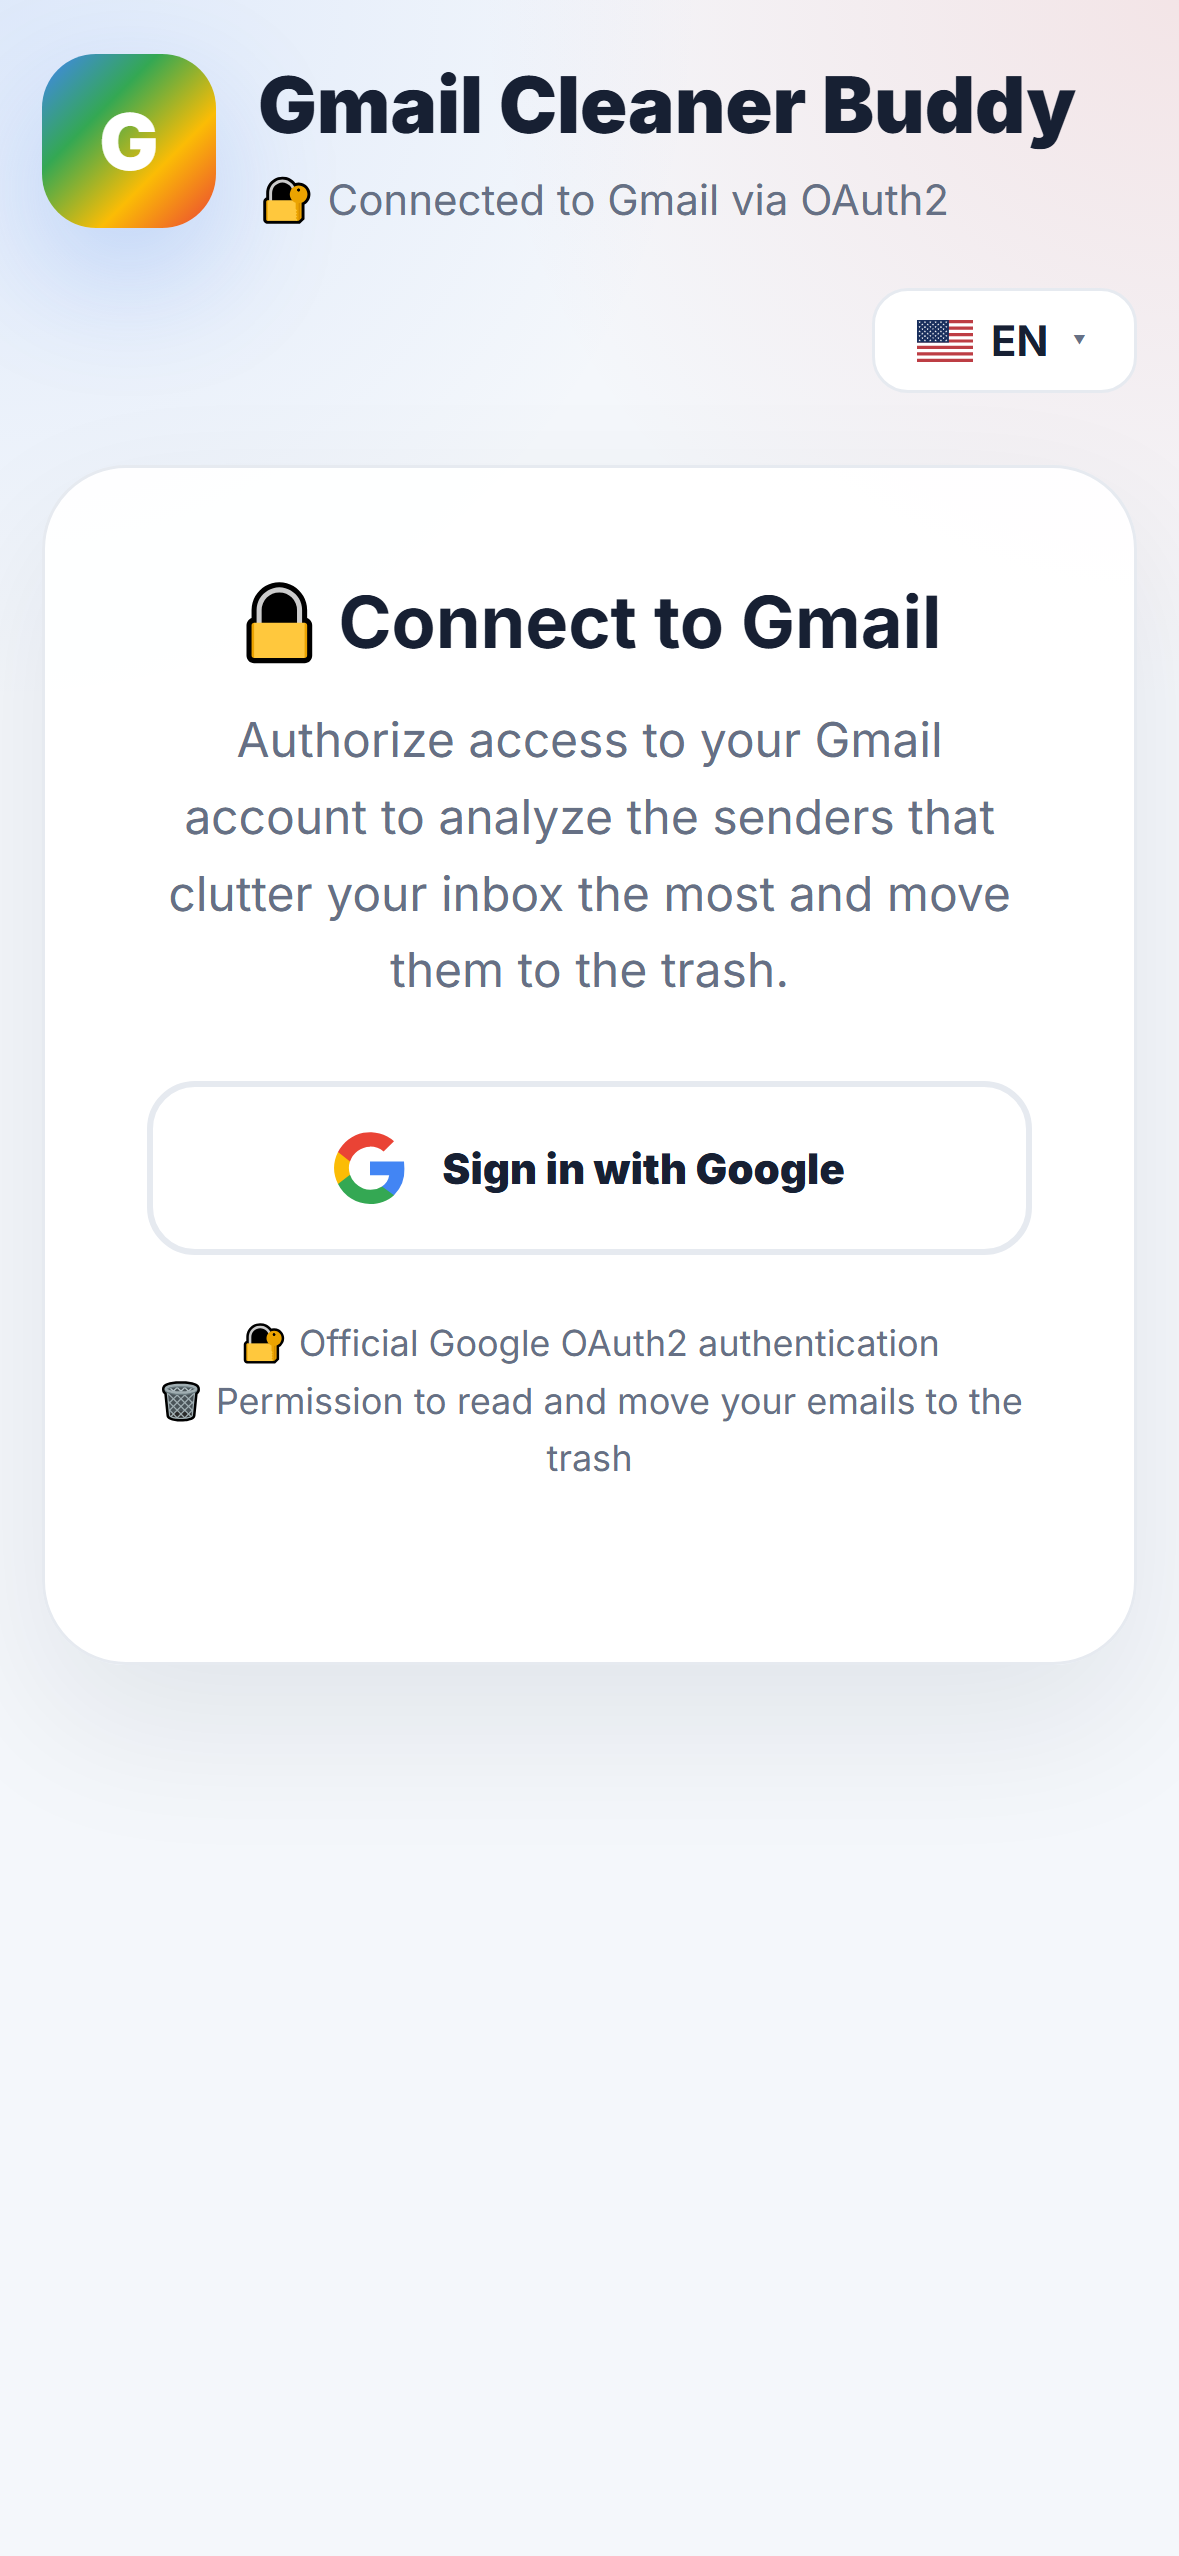
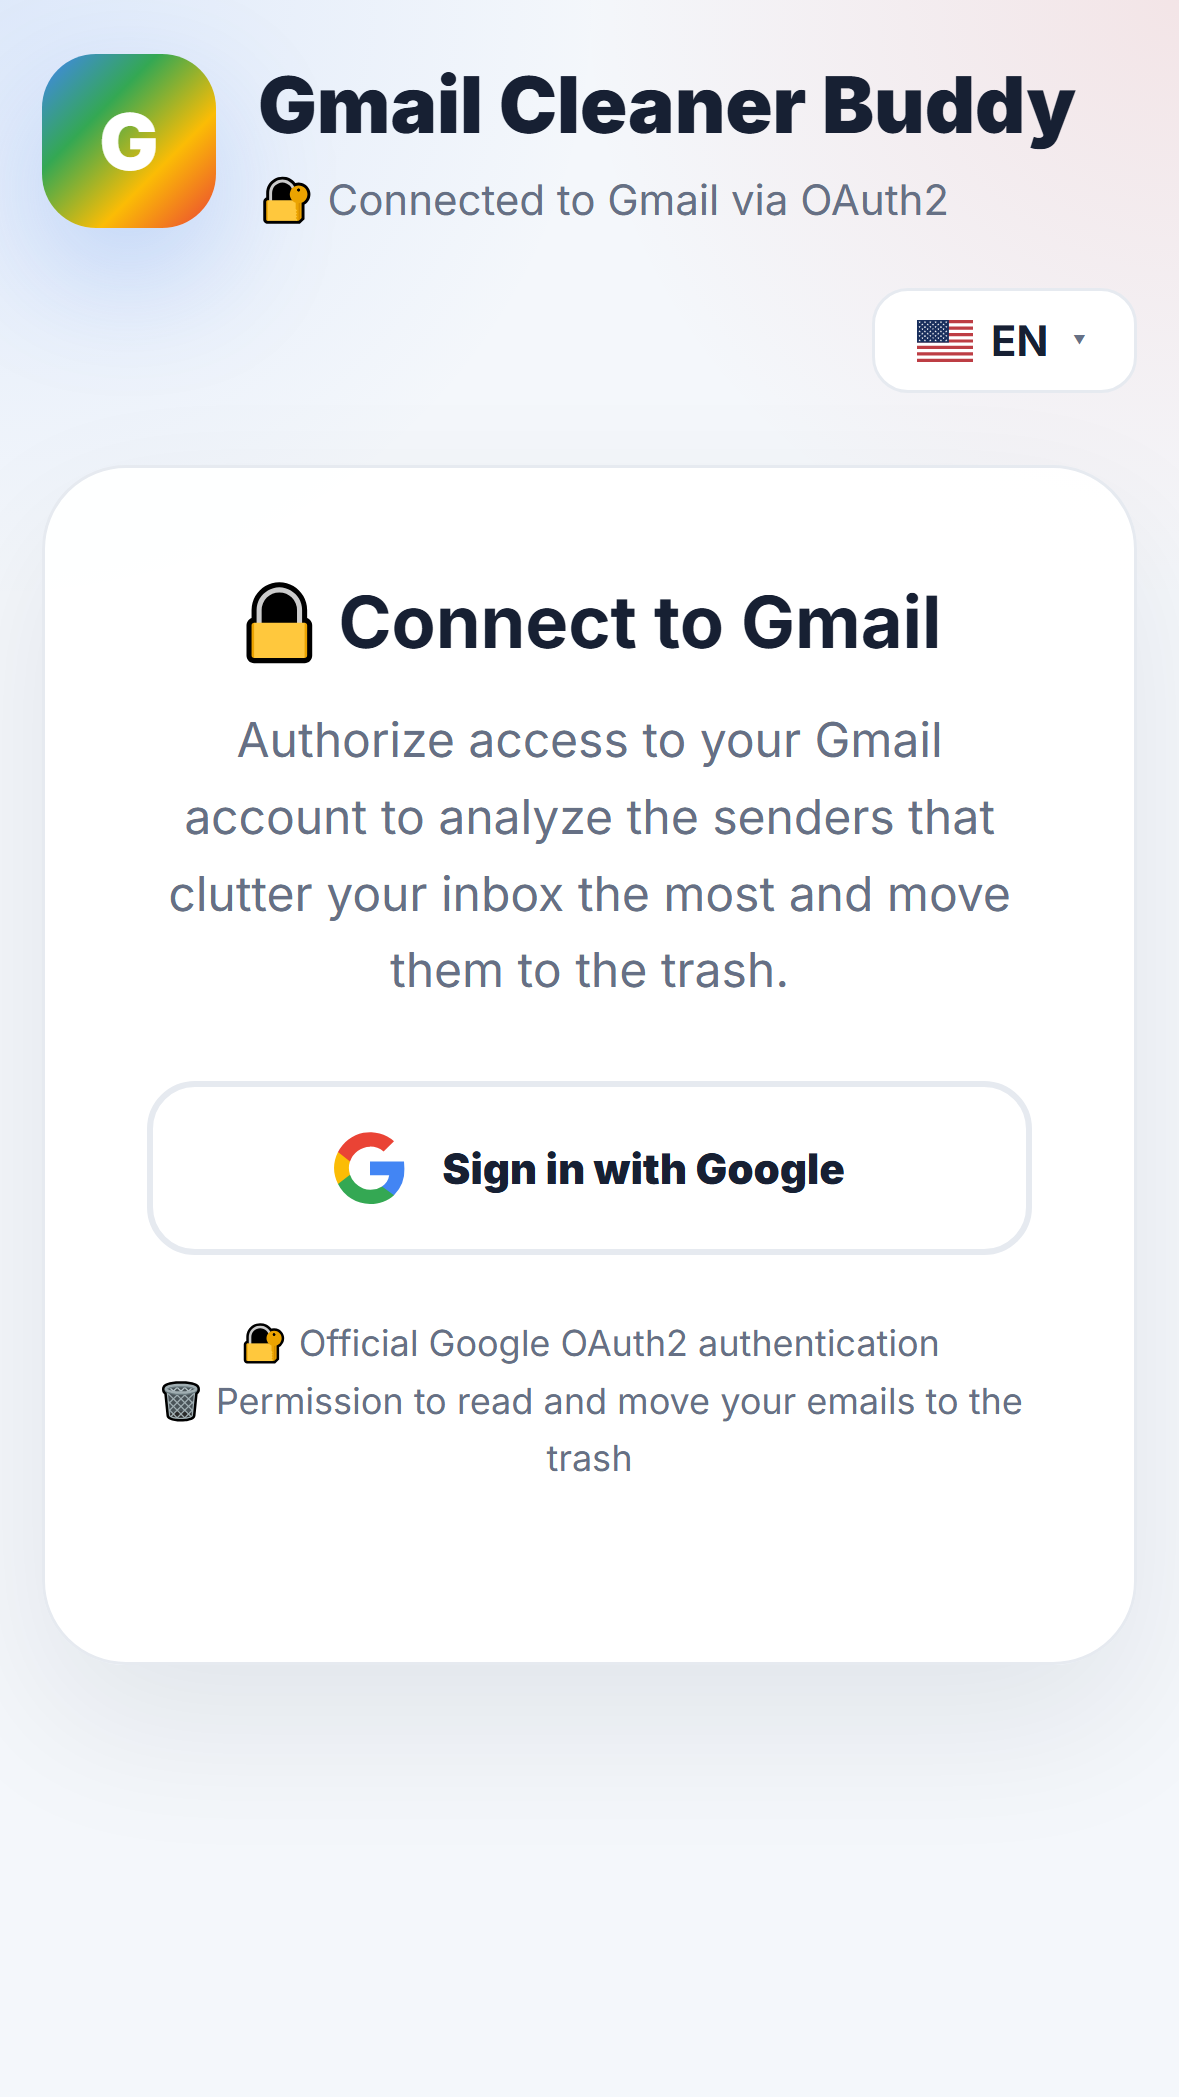
fix: tira o SDK do Facebook e a permissão de ID de publicidade (1.15)
O plugin de login embutia o SDK do Facebook por padrão, e com ele as
permissões AD_ID/AdServices. A Play bloqueava o envio porque a declaração
diz "sem ID de publicidade". Agora só o provedor Google é incluído e o
manifesto remove AD_ID explicitamente. Capturas da ficha refeitas em 9:16:
a Play recusa lado maior acima do dobro do menor.

diff --git a/store/screenshot-frame.html b/store/screenshot-frame.html
@@ -12,7 +12,7 @@
      no canto superior esquerdo — que e exatamente a regiao capturada. -->
 <style>
   html,body{margin:0;padding:0;overflow:hidden;background:#f4f7fb;}
-  iframe{display:block;border:0;width:393px;height:852px;}
+  iframe{display:block;border:0;width:393px;height:699px;}
 </style>
 </head>
 <body>

diff --git a/store/release-notes.md b/store/release-notes.md
@@ -8,6 +8,25 @@ Uma seção por versão, a mais nova em cima.
 
 ---
 
+## 1.15 (versionCode 16)
+
+O que o testador percebe: nada na tela. O plugin de login deixou de embutir o SDK do Facebook
+(que o app nunca usou) e, com ele, a permissão de ID de publicidade — a Play declara "sem ID de
+publicidade" e "nenhuma coleta de dados". O app ficou ~1 MB menor. Primeira versão do teste
+fechado: as notas abaixo resumem também o que veio na 1.14.
+
+### 🇧🇷 Português (pt-BR)
+```
+Primeira versão de teste. A análise lê cada e-mail da caixa e conta com precisão quantos cada remetente enviou. Numa primeira leitura longa, o acesso é renovado sozinho, sem pedir a conta de novo, e a tela fica acesa até terminar. O app não usa ID de publicidade e ficou menor.
+```
+
+### 🇺🇸 English (en-US)
+```
+First test release. The analysis reads every email in your inbox and counts exactly how many each sender sent. During a long first read, access renews by itself without asking for your account again, and the screen stays on until it finishes. The app does not use an advertising ID and is now smaller.
+```
+
+---
+
 ## 1.14 (versionCode 15)
 
 O que o testador percebe: na primeira análise que passa de 1 hora, o app não pede mais para
